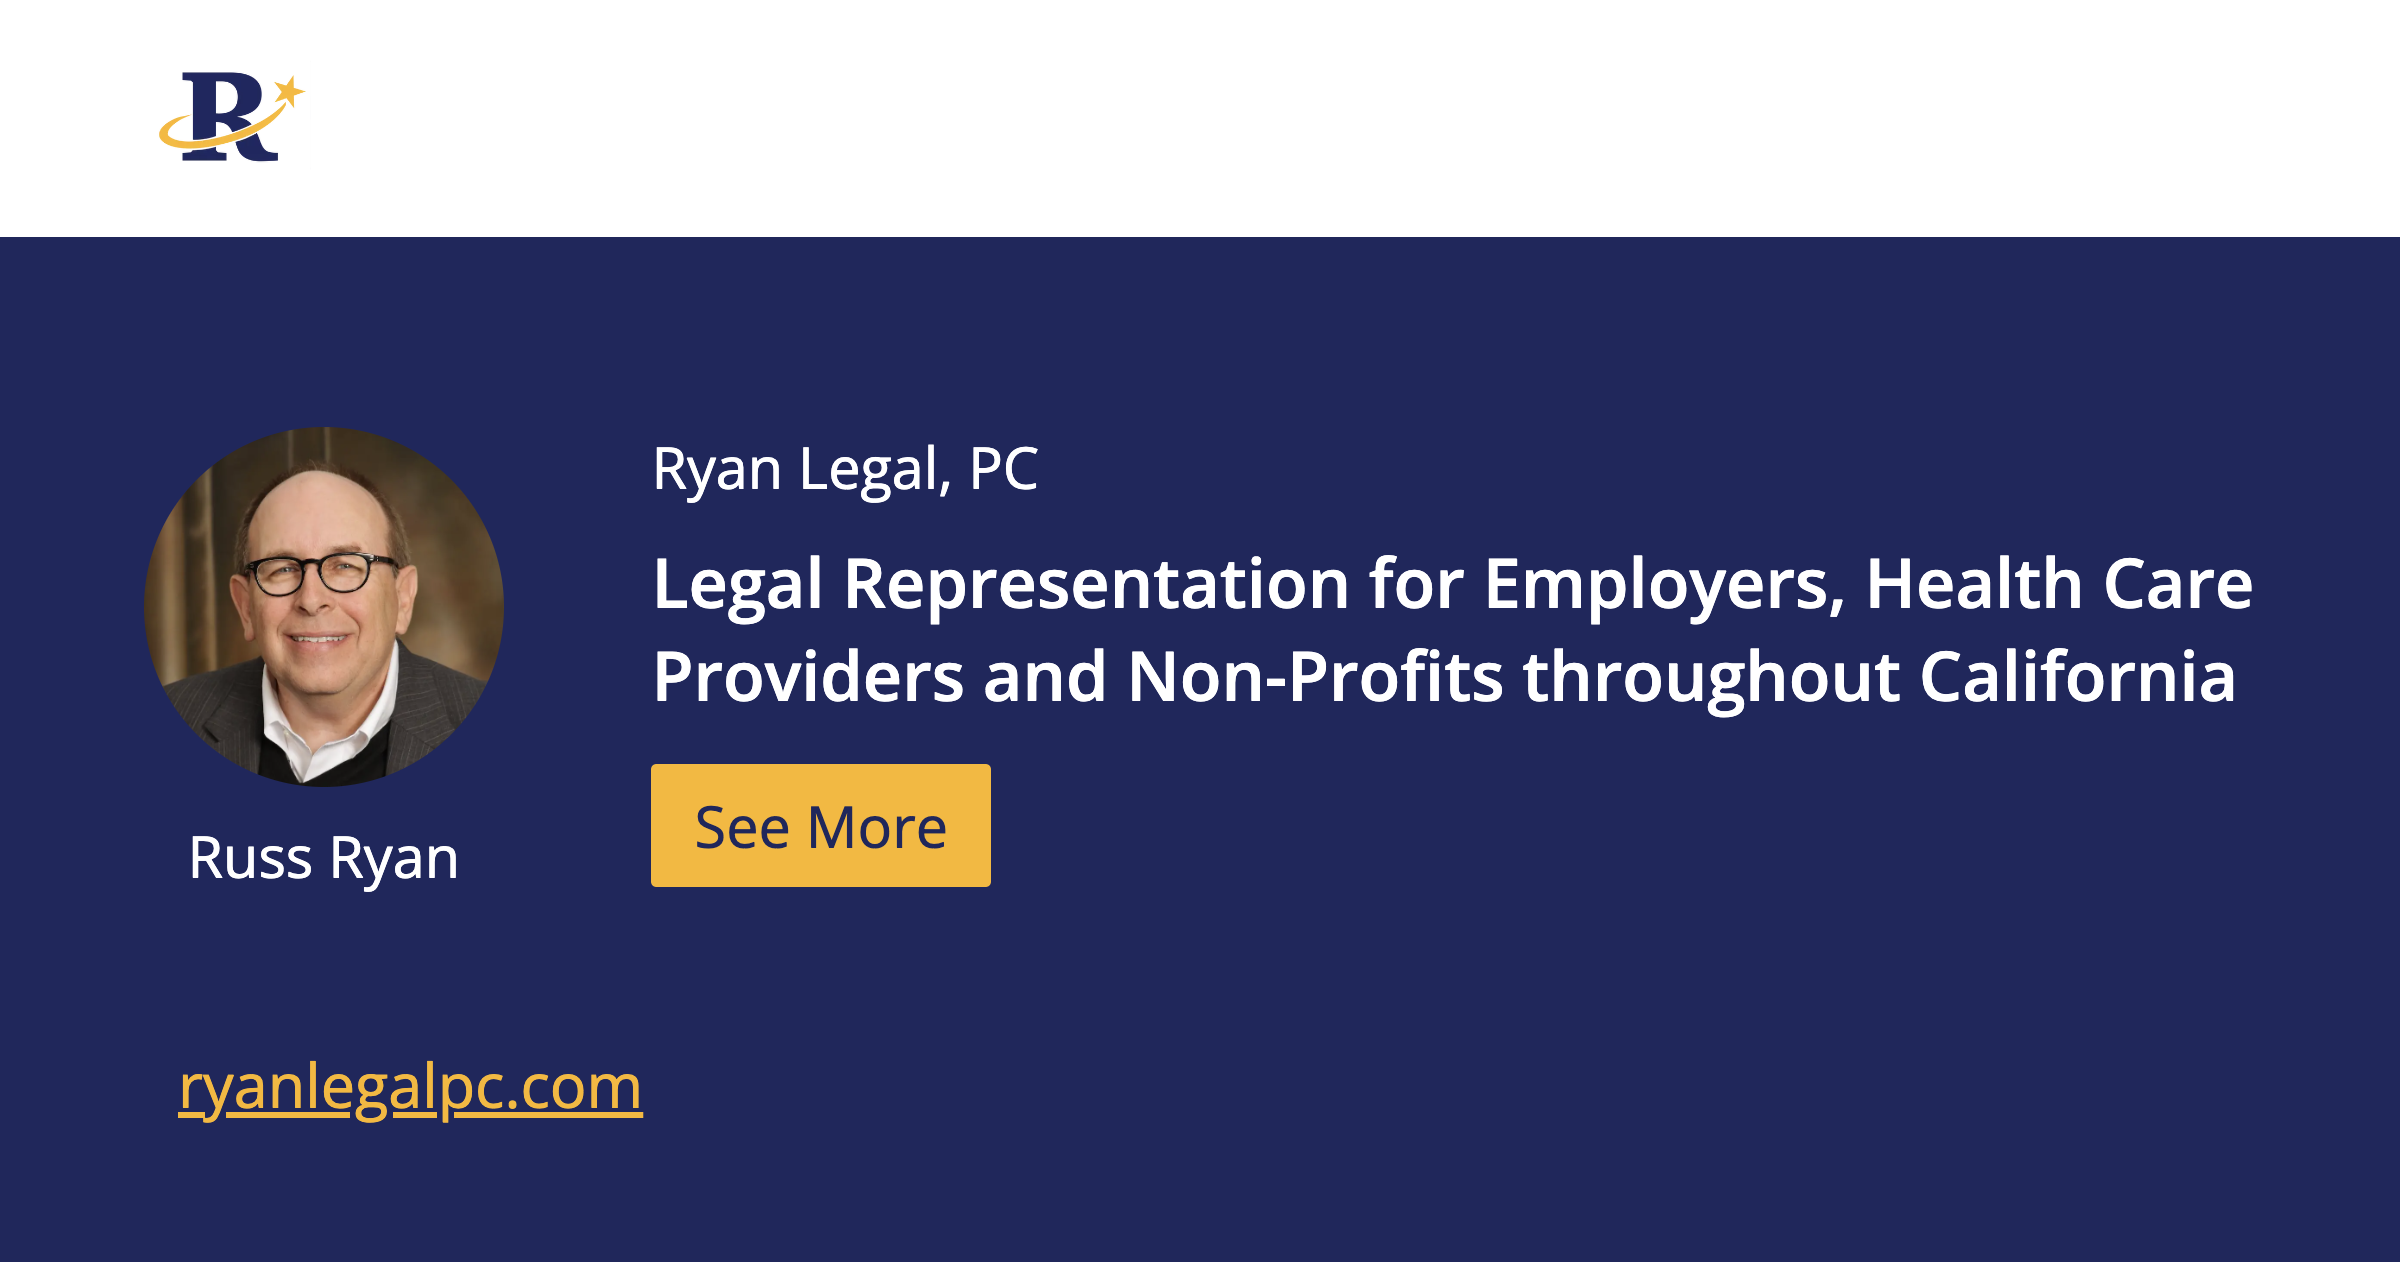
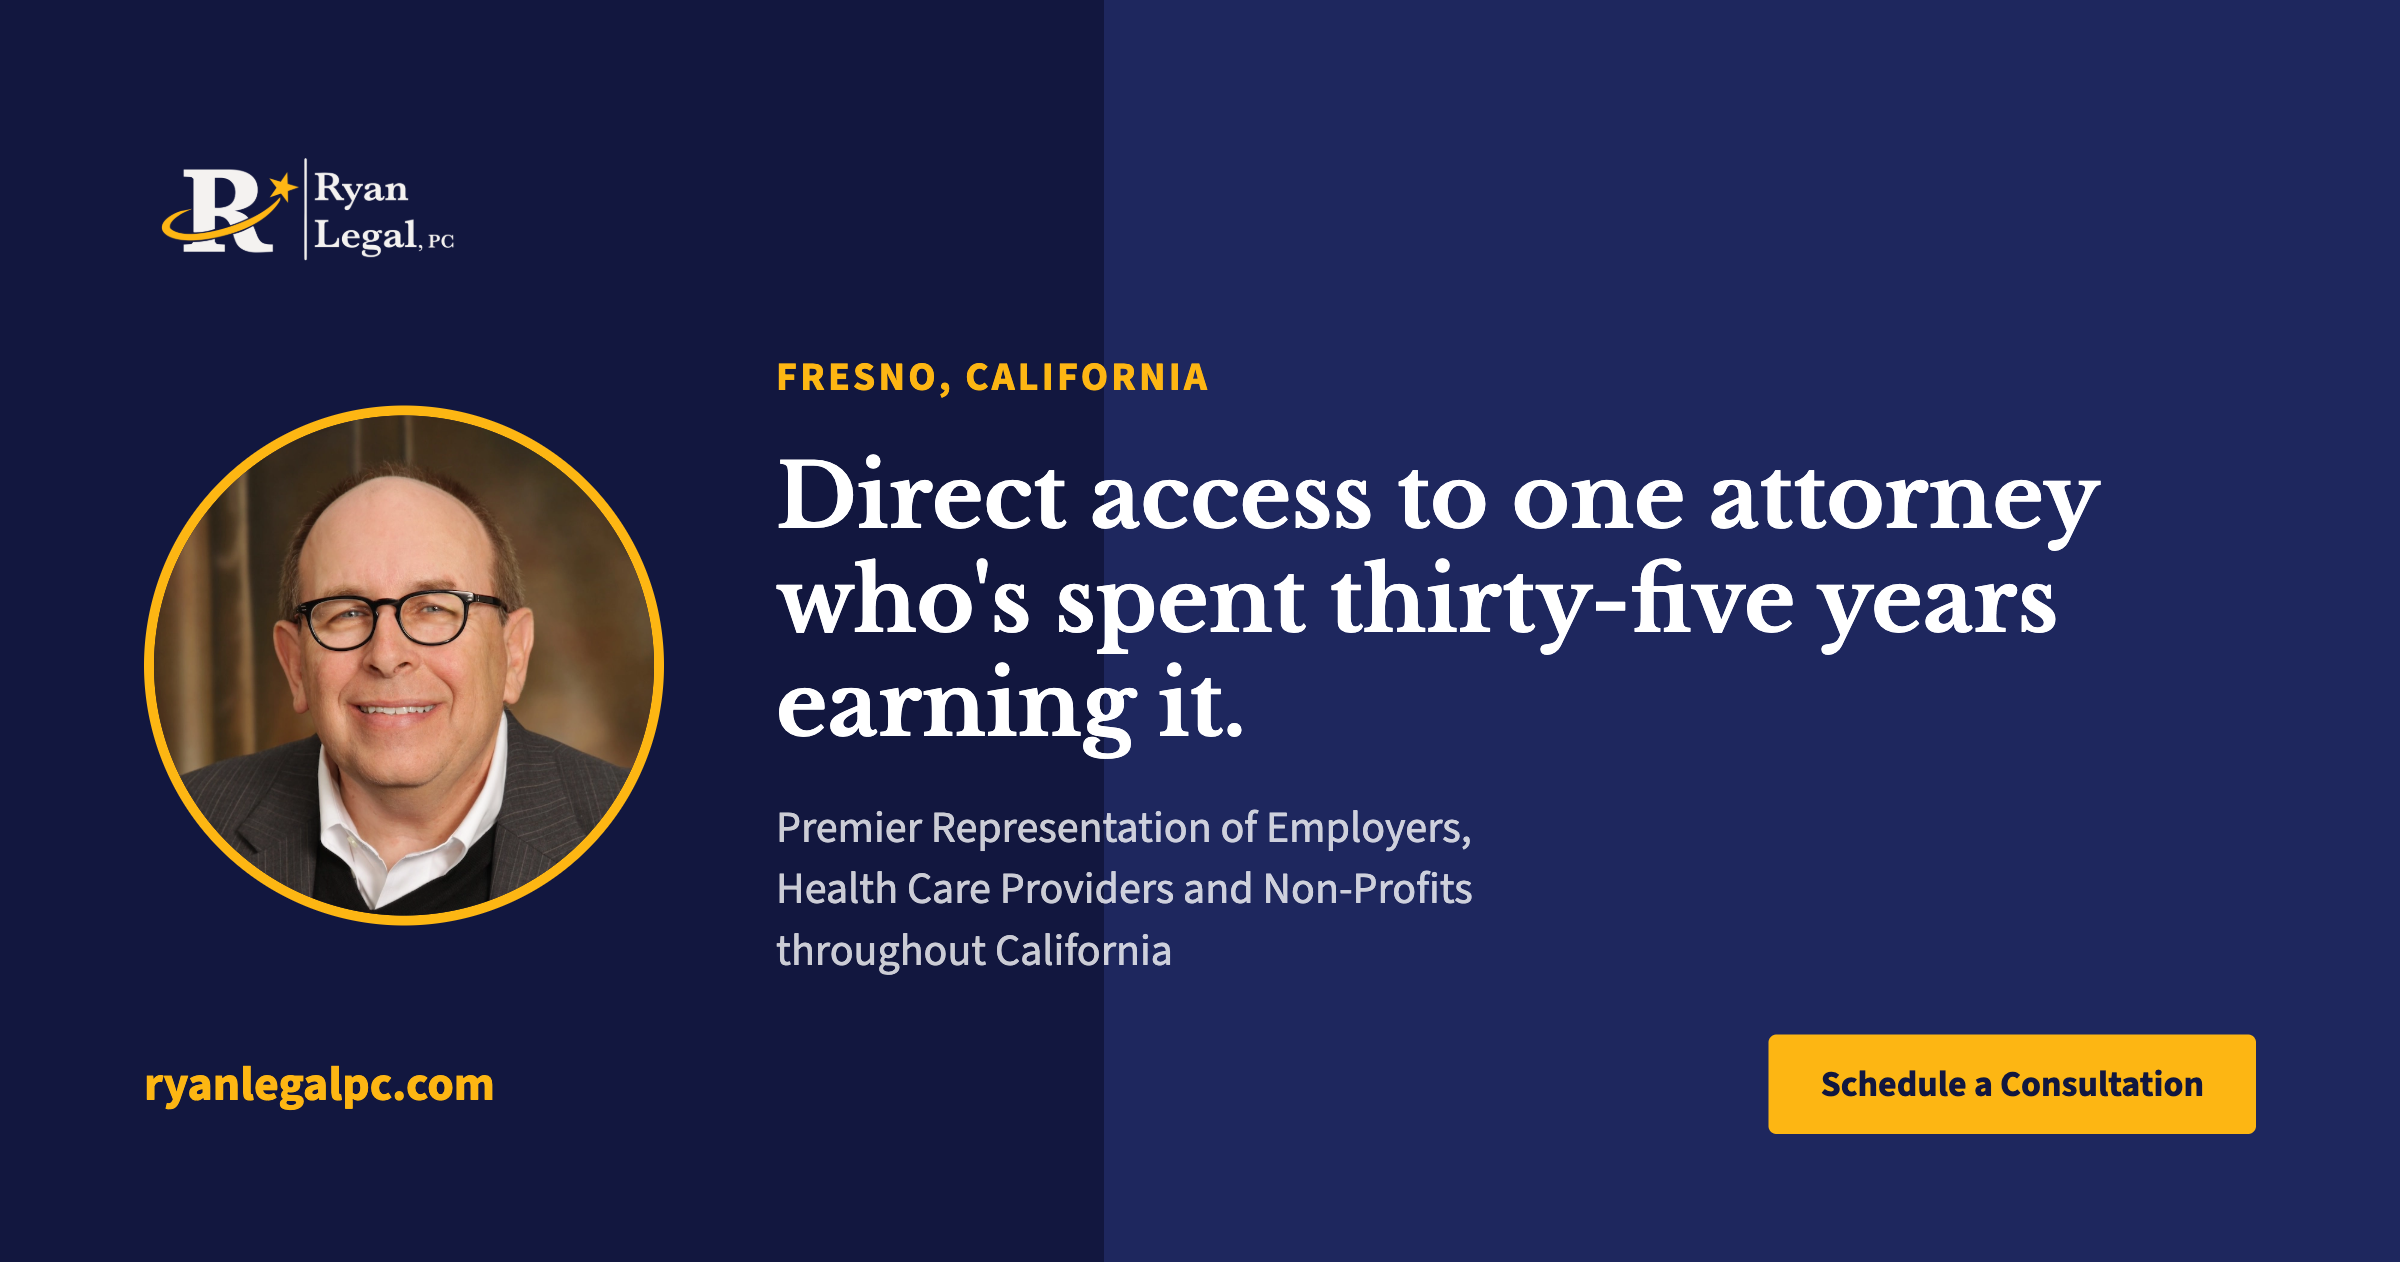
Milestone 1.5: another polish pass, improved branding and spacing

diff --git a/tests/polish-pass.spec.ts b/tests/polish-pass.spec.ts
@@ -1,0 +1,53 @@
+import { expect, test } from '@playwright/test'
+
+test('Home: quote is final (no draft flag), consultation band and footer brand mark render', async ({ page }) => {
+  await page.goto('/')
+  await expect(page.locator('blockquote')).toContainText('The best measure of my work is that clients stay')
+  await expect(page.getByText(/draft quotation/i)).toHaveCount(0)
+
+  const closeSection = page.locator('.close-section')
+  await expect(closeSection).toBeVisible()
+  await expect(closeSection.getByRole('heading', { name: 'Request a Consultation' })).toBeVisible()
+  await expect(closeSection.getByRole('link', { name: 'Get in touch' })).toBeVisible()
+
+  await expect(page.locator('.site-footer__brand-mark')).toHaveAttribute('src', '/full-logo-white.webp')
+})
+
+test('Header brand mark uses logo-white.webp', async ({ page }) => {
+  await page.goto('/')
+  await expect(page.locator('.site-header__brand-mark')).toHaveAttribute('src', '/logo-white.webp')
+})
+
+test('About: waiting-room photo break sits between Crystal and Litigation Record', async ({ page }) => {
+  await page.goto('/about')
+  const figure = page.locator('.about-photo-break')
+  await expect(figure).toBeVisible()
+  await expect(figure.locator('img')).toHaveAttribute('src', '/waiting-room.webp')
+
+  const order = await page.evaluate(() => {
+    const crystal = document.getElementById('crystal')
+    const photo = document.querySelector('.about-photo-break')
+    const record = document.getElementById('litigation-record')
+    if (!crystal || !photo || !record) return null
+    const pos = crystal.compareDocumentPosition(photo)
+    const pos2 = photo.compareDocumentPosition(record)
+    return {
+      photoAfterCrystal: !!(pos & Node.DOCUMENT_POSITION_FOLLOWING),
+      recordAfterPhoto: !!(pos2 & Node.DOCUMENT_POSITION_FOLLOWING),
+    }
+  })
+  expect(order).toEqual({ photoAfterCrystal: true, recordAfterPhoto: true })
+})
+
+test('404 page shows the branded compact layout', async ({ page }) => {
+  const response = await page.goto('/this-route-does-not-exist')
+  expect(response?.status()).toBe(404)
+  await expect(page.getByRole('heading', { name: 'Page not found' })).toBeVisible()
+  await expect(page.getByText('The page may have moved, or the address may be incorrect.')).toBeVisible()
+  const homeLink = page.getByRole('link', { name: 'Return Home' })
+  await expect(homeLink).toBeVisible()
+  await expect(page.locator('.notfound__mark')).toHaveAttribute('src', '/icon.svg')
+
+  await homeLink.focus()
+  await expect(homeLink).toBeFocused()
+})

diff --git a/src/styles/global.css b/src/styles/global.css
@@ -40,6 +40,11 @@
   --surface-navy-fg-soft: rgba(255, 255, 255, 0.72);
   --surface-navy-rule: rgba(255, 255, 255, 0.18);
 
+  /* Second, deliberately distinct navy surface for one-off "destination"
+     moments (e.g. Home's consultation close) — deeper than the header/
+     footer navy in light mode so the two never read as the same block. */
+  --surface-consult: #12173f;
+
   --font-display: 'Libre Baskerville', Georgia, 'Times New Roman', serif;
   --font-body: 'Source Sans 3 Variable', 'Source Sans 3', -apple-system, BlinkMacSystemFont, 'Segoe UI', Arial, sans-serif;
 
@@ -73,6 +78,10 @@
   --gold-accent: #e5a836;
   --focus-ring: var(--gold);
   --navy-deep: #0b0e1f;
+  /* Distinct from both --bg (#0b0e1f) and the header/footer's --surface-navy
+     (#1e275e) so the consultation band reads as its own surface, not a
+     repeat of either. */
+  --surface-consult: #1b2145;
 }
 
 @media (prefers-color-scheme: dark) {
@@ -89,6 +98,7 @@
     --gold-accent: #e5a836;
     --focus-ring: var(--gold);
     --navy-deep: #0b0e1f;
+    --surface-consult: #1b2145;
   }
 }
 

diff --git a/docs/legacy-content-inventory.md b/docs/legacy-content-inventory.md
@@ -63,15 +63,19 @@ All three (`RESEND_API_KEY`, `CONTACT_TO_EMAIL`, `CONTACT_FROM_EMAIL`) must be s
 
 Tracked here rather than in code comments so it survives independently of any one file. Update this list as items close out.
 
-- [ ] **Russ must approve or replace the provisional Home quotation** ("Clients don't want a law firm...") — it's a draft written in his likely voice, not something he actually said. Flagged in the page itself (`src/pages/index.astro`) and here until resolved.
+- [ ] **Russ must approve or revise the Home quotation** before production launch. Updated 2026-07-19 to: "The best measure of my work is that clients stay—many for decades. They know they'll get practical counsel, honest advice, and strong representation when they need it." (`src/pages/index.astro`). This replaces the earlier provisional draft and removes the visible "(draft quotation, pending Russ's review)" flag from the live page — but the wording itself is still unconfirmed by Russ and should not be treated as final.
 - [ ] **Perform a real deployed Contact-form submission** after this pass (post-polish) — do not rely on the earlier Milestone-1-era test alone.
 - [ ] **Confirm delivery to `info@ryanlegalpc.com`** from that deployed test.
 - [ ] **Confirm the Reply-To targets the visitor's submitted email**, not the firm's address, from that same deployed test.
 - [x] Crystal Brightwell's title ("Senior Paralegal / Office Administrator") and tenure (24 years) — confirmed, no longer provisional.
 - [x] Crystal's published email (`crystal@ryanlegalpc.com`) — confirmed 2026-07-19 (verified independently against the legacy `main` branch's `app/content.tsx`) and added to `/contact`.
-- [ ] **Conduct the upcoming comprehensive responsive audit** across the full range of widths and heights — this polish pass verified 1280×800 / 1366×768 / 1440×900 plus basic regression checks at 390 / 768 / 1024, but that is not a substitute for the full audit.
+- [x] **Comprehensive responsive audit** — completed 2026-07-19: fresh-eyes visual/responsive audit across all 14 required viewports × 6 routes × 2 themes (168 combinations), zero horizontal-overflow or clipping defects found. Findings from that audit drove this polish pass; see the published audit artifact referenced in session notes for the full write-up.
 - [ ] **Final factual and legal copy review with Russ** — response-time promises, confidentiality/no-attorney-client-relationship language, and any remaining marketing copy.
 - [ ] **Milestone 2 (LawPay embed) remains deferred** — see above.
+- [x] **About page visual break** — added 2026-07-19: `waiting-room-2.png` (optimized to `public/waiting-room.webp`) selected over `waiting-room-1.png` specifically because it has the firm's actual wall-mounted "R | Ryan Legal, PC" sign in frame, giving the page one authentic, on-brand visual moment between the Crystal Brightwell section and the Litigation Record. `waiting-room-1.png` (no visible branding) was the runner-up.
+- [ ] **Office exterior photo intentionally deferred** — `public/office-exterior.jpg` is not used anywhere on the site. Its visible building signage reads "5250," while the firm's published address is "5200 North Palm Avenue." Do not use this file until Russ can confirm it's the correct building or provide a new exterior photo. `conference-room.png` and `russ-desk.png` were also left unused this pass (not evaluated as launch-ready).
+- [x] **Navbar and footer brand marks updated** — 2026-07-19: the header's circular-badge `icon.svg` mark was replaced with `logo-white.webp` (the ivory/gold mark meant for navy surfaces) in `src/components/Header.astro`; the footer's icon-plus-typeset treatment was replaced with the full `full-logo-white.webp` lockup in `src/components/Footer.astro`. `icon.svg` remains the favicon and is now also used on the 404 page specifically because that page sits on the plain page background (not a fixed navy surface), where the ivory logo variants would lack contrast in light mode.
+- [x] **Open Graph and Twitter images regenerated** — 2026-07-19: `public/opengraph-image.png` (2400×1262) and `public/twitter-image.png` (1010×506) were rebuilt from one shared master composition, adapted per aspect ratio, using the finalized `full-logo-white.webp` lockup, the real Russ portrait, Libre Baskerville/Source Sans 3, and current navy/gold tokens. Dimensions and the metadata references in `src/layouts/BaseLayout.astro` / `src/lib/json-ld.ts` are unchanged.
 
 ## Assets preserved as-is
 
